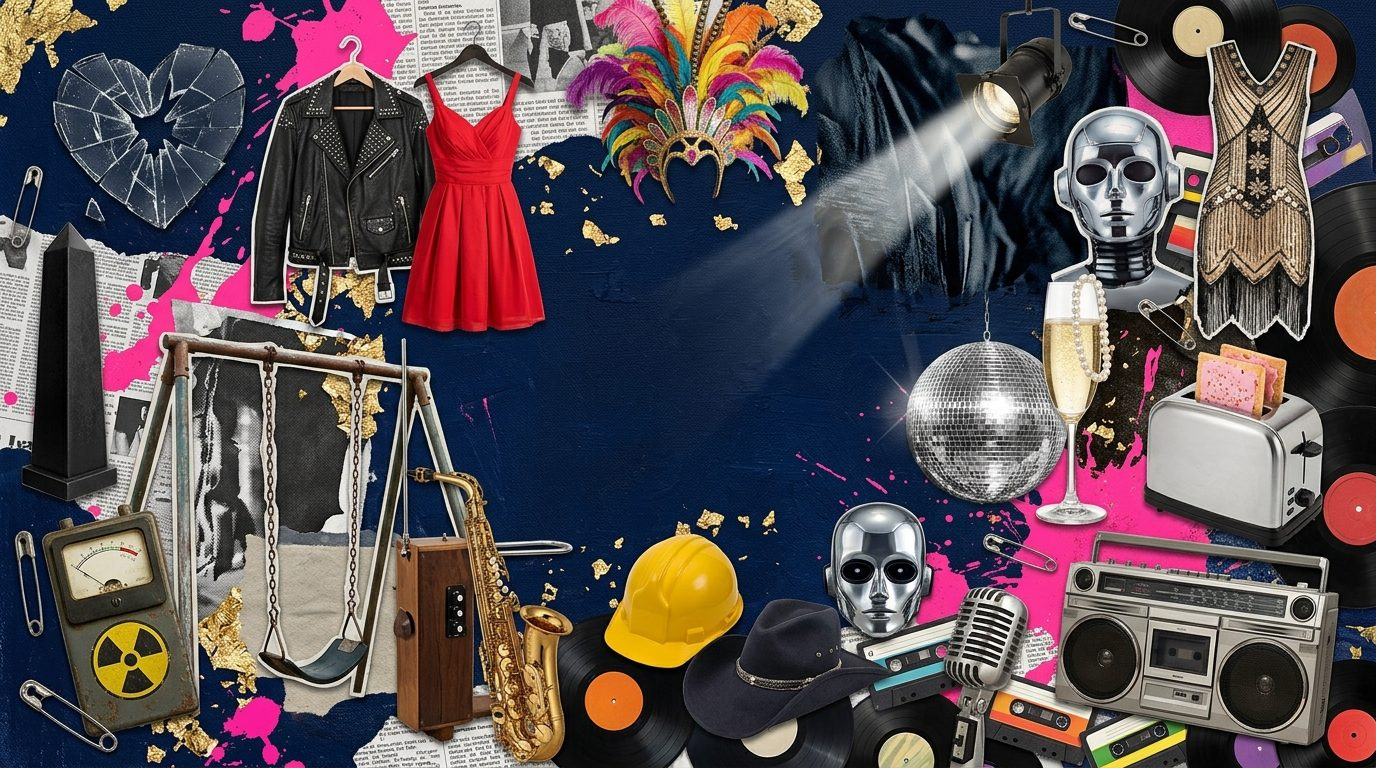
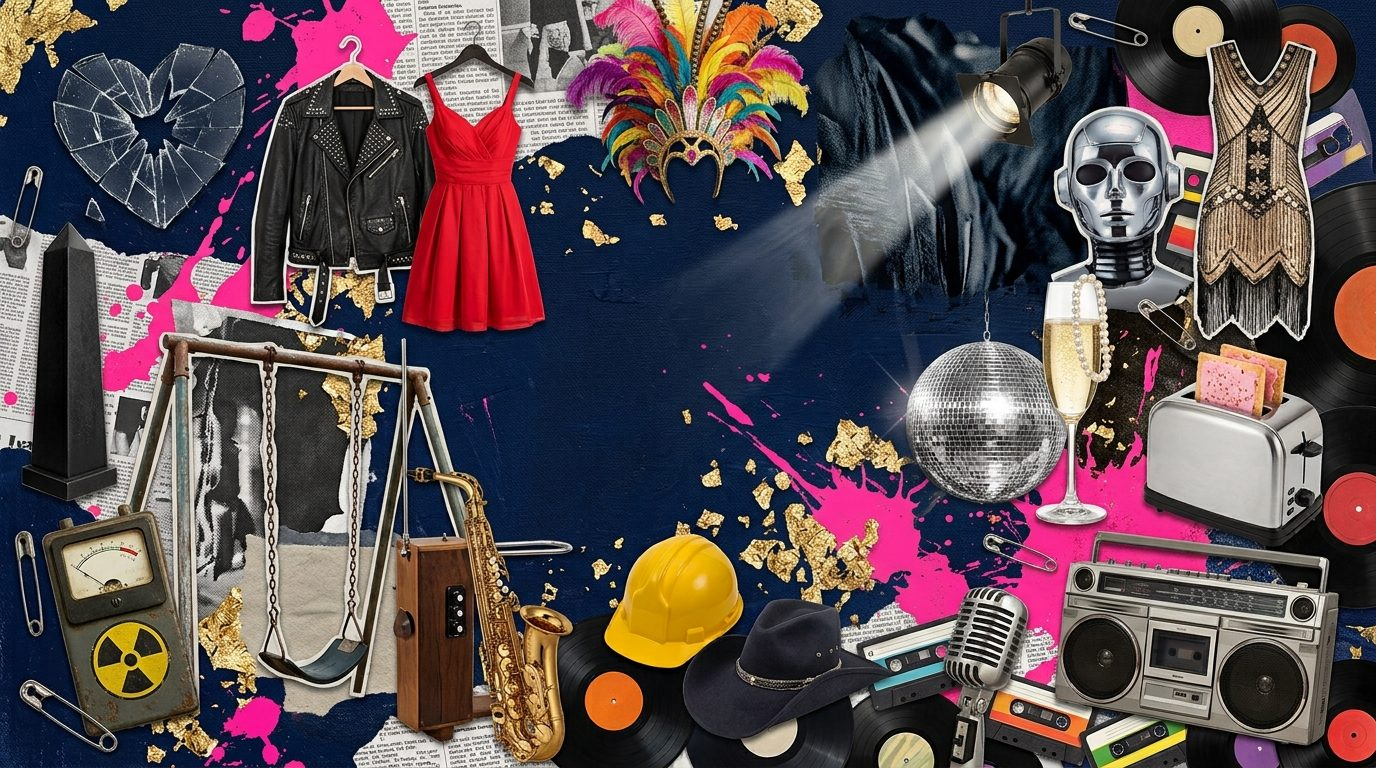
Jukebox header: one robot head only; full menu from 1024px up
Claude-Session: https://claude.ai/code/session_011MVAnQFHQ9Wv2cvGWey2uC

diff --git a/src/components/site-menu.tsx b/src/components/site-menu.tsx
@@ -21,10 +21,10 @@ export function SiteMenu() {
   return (
     <header className="sticky top-0 z-50 border-b border-border bg-background/85 backdrop-blur">
       <nav aria-label="Site" className="mx-auto flex max-w-6xl items-center justify-between px-4 py-2">
-        <Link to="/" className="whitespace-nowrap text-sm font-bold uppercase tracking-[0.2em] text-gold text-glow">
+        <Link to="/" className="whitespace-nowrap text-sm font-bold uppercase tracking-[0.12em] text-gold text-glow xl:tracking-[0.2em]">
           Night Fever fan page
         </Link>
-        <div className="flex items-center gap-2 xl:hidden">
+        <div className="flex items-center gap-2 lg:hidden">
           <SiteSearch />
           <button
             type="button"
@@ -35,7 +35,7 @@ export function SiteMenu() {
             Menu
           </button>
         </div>
-        <ul className="hidden items-center gap-0.5 xl:flex">
+        <ul className="hidden items-center gap-0.5 lg:flex">
           {PAGES.map((p) => (
             <li key={p.to}>
               <Link to={p.to} className={item} activeOptions={{ exact: true }} activeProps={{ className: "text-gold" }}>
@@ -49,7 +49,7 @@ export function SiteMenu() {
         </ul>
       </nav>
       {open && (
-        <ul className="border-t border-border px-4 pb-3 xl:hidden">
+        <ul className="border-t border-border px-4 pb-3 lg:hidden">
           {PAGES.map((p) => (
             <li key={p.to}>
               <Link to={p.to} className={item} onClick={() => setOpen(false)} activeOptions={{ exact: true }} activeProps={{ className: "text-gold" }}>

diff --git a/AGENTS.md b/AGENTS.md
@@ -43,3 +43,4 @@
 - Book Club (/book-club) and Jukebox (/jukebox) are built from entities.ts via src/data/collections.ts (Book/Publication and Music references) with the shared CollectionPage - so every new Afterparty adds its books and songs automatically; songs link to Spotify/YouTube searches, books to Open Library, nothing is hosted.
 - The top menu shows the full links only from xl (1280px) up, with the short label "A–Z"; below that it is the Menu button - so the bar never wraps.
 - The Jukebox player (src/components/jukebox-player.tsx) uses the Spotify iFrame API, loaded only when a visitor presses play, and auto-advances to the next song; Spotify IDs live in SPOTIFY in src/data/collections.ts and must come from real Spotify URLs (never guessed). The privacy page names this one embed.
+- Header collages never repeat a reference: each object appears once (check the Gemini image for duplicates before using it, and ask Gemini to remove repeats).
